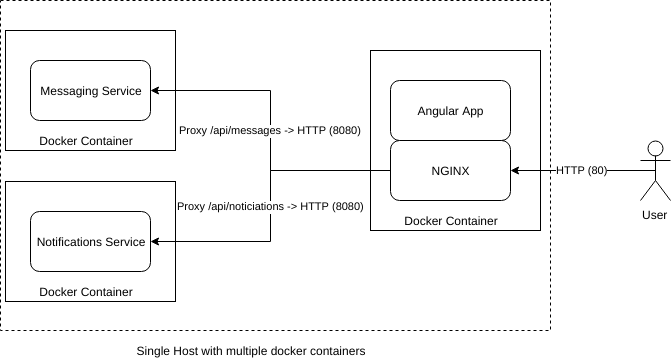
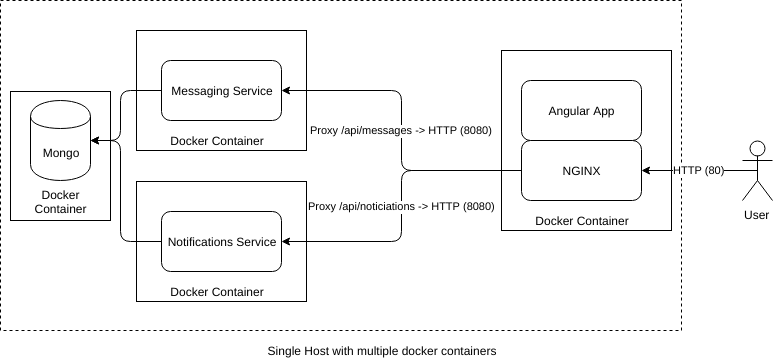
Added backend MongoDB as a separate container for both services

diff --git a/backend/notifications-service/src/main/java/playground/notifications/controller/NotificationsController.java b/backend/notifications-service/src/main/java/playground/notifications/controller/NotificationsController.java
@@ -4,6 +4,7 @@ import java.sql.Date;
 import java.util.ArrayList;
 import java.util.List;
 
+import org.springframework.beans.factory.annotation.Autowired;
 import org.springframework.http.HttpStatus;
 import org.springframework.http.MediaType;
 import org.springframework.web.bind.annotation.RequestMapping;
@@ -11,17 +12,25 @@ import org.springframework.web.bind.annotation.RequestMethod;
 import org.springframework.web.bind.annotation.ResponseStatus;
 import org.springframework.web.bind.annotation.RestController;
 
+import playground.notifications.Notification;
+import playground.notifications.NotificationsRepository;
+import playground.notifications.Severity;
+
 @RestController
 public class NotificationsController {
+	private NotificationsRepository notificationsRepository;
+	
+	@Autowired
+	public NotificationsController(NotificationsRepository notificationsRepository) {
+		this.notificationsRepository = notificationsRepository;
+	}
+	
 	@RequestMapping(value = "/api/notifications", method = RequestMethod.GET, produces = MediaType.APPLICATION_JSON_VALUE)
 	@ResponseStatus(HttpStatus.OK)
 	public NotificationsResponse getMessages() {
-		List<Notification> notifications = new ArrayList<>();
-		notifications.add(new Notification("Something minor happened.", Date.valueOf("2011-01-01"), Severity.LOW));
-		notifications
-				.add(new Notification("Something critical happened.", Date.valueOf("2013-01-01"), Severity.CRITICAL));
-		notifications.add(new Notification("Something happened.", Date.valueOf("2015-01-01"), Severity.MED));
-
+		List<Notification> notifications = 
+				notificationsRepository.findAll();
+		
 		NotificationsResponse response = new NotificationsResponse();
 		response.setNotifications(notifications);
 

diff --git a/backend/messaging-service/src/main/java/playground/messaging/controller/MessagingController.java b/backend/messaging-service/src/main/java/playground/messaging/controller/MessagingController.java
@@ -4,6 +4,7 @@ import java.sql.Date;
 import java.util.ArrayList;
 import java.util.List;
 
+import org.springframework.beans.factory.annotation.Autowired;
 import org.springframework.http.HttpStatus;
 import org.springframework.http.MediaType;
 import org.springframework.web.bind.annotation.RequestMapping;
@@ -11,19 +12,25 @@ import org.springframework.web.bind.annotation.RequestMethod;
 import org.springframework.web.bind.annotation.ResponseStatus;
 import org.springframework.web.bind.annotation.RestController;
 
+import playground.messaging.Message;
+import playground.messaging.MessagesRepository;
+
 @RestController
 public class MessagingController {
+	private MessagesRepository messagesRepository;
+	
+	@Autowired
+	MessagingController(MessagesRepository messagesRepository) {
+		this.messagesRepository = messagesRepository;
+	}
 	
 	@RequestMapping(value = "/api/messages",
 					method = RequestMethod.GET,
 					produces = MediaType.APPLICATION_JSON_VALUE)
 	@ResponseStatus(HttpStatus.OK)
 	public MessagesResponse getMessages() {
-		List<Message> messages = new ArrayList<>();
-		messages.add(new Message("Test message 1", Date.valueOf("2011-01-01"), "Someone"));
-		messages.add(new Message("Test message 2", Date.valueOf("2013-01-01"), "Someone else"));
-		messages.add(new Message("Test message 3", Date.valueOf("2015-01-01"), "Yet another"));
-		
+		List<Message> messages = messagesRepository.findAll();
+				
 		MessagesResponse response = new MessagesResponse();
 		response.setMessages(messages);
 		

diff --git a/backend/notifications-service/src/main/java/playground/notifications/DataSeeder.java b/backend/notifications-service/src/main/java/playground/notifications/DataSeeder.java
@@ -1,0 +1,32 @@
+package playground.notifications;
+
+import java.time.Instant;
+import java.time.temporal.ChronoUnit;
+import java.util.Date;
+
+import org.springframework.stereotype.Service;
+
+@Service
+public class DataSeeder {
+	private final Notification[] seedNotifications= new Notification[] {
+		new Notification("Test Notification 1", Date.from(Instant.now().minus(10, ChronoUnit.DAYS)), Severity.LOW),
+		new Notification("Test Notification 2", Date.from(Instant.now().minus(12, ChronoUnit.DAYS)), Severity.MED),
+		new Notification("Test Notification 3", Date.from(Instant.now().minus(15, ChronoUnit.DAYS)), Severity.HIGH),
+		new Notification("Test Notification 4", Date.from(Instant.now().minus(17, ChronoUnit.DAYS)), Severity.CRITICAL),
+	};
+	
+	private NotificationsRepository notificationsRepository;
+	
+	public DataSeeder(NotificationsRepository notificationsRepository) {
+		this.notificationsRepository = notificationsRepository;
+	}
+	
+	public void seedIfEmpty() {
+		long numberOfRecords = notificationsRepository.count();
+		if(numberOfRecords == 0) {
+			for(Notification notification: seedNotifications) {
+				notificationsRepository.insert(notification);
+			}
+		}
+	}
+}

diff --git a/backend/messaging-service/src/main/java/playground/messaging/DataSeeder.java b/backend/messaging-service/src/main/java/playground/messaging/DataSeeder.java
@@ -1,0 +1,32 @@
+package playground.messaging;
+
+import java.time.Instant;
+import java.time.temporal.ChronoUnit;
+import java.util.Date;
+
+import org.springframework.stereotype.Service;
+
+@Service
+public class DataSeeder {
+	private final Message[] seedMessages = new Message[] {
+		new Message("Test Message 1", Date.from(Instant.now().minus(10, ChronoUnit.DAYS)), "User1"),
+		new Message("Test Message 2", Date.from(Instant.now().minus(12, ChronoUnit.DAYS)), "User2"),
+		new Message("Test Message 3", Date.from(Instant.now().minus(15, ChronoUnit.DAYS)), "User3"),
+		new Message("Test Message 4", Date.from(Instant.now().minus(17, ChronoUnit.DAYS)), "User2"),
+	};
+	
+	private MessagesRepository messagesRepository;
+	
+	public DataSeeder(MessagesRepository messagesRepository) {
+		this.messagesRepository = messagesRepository;
+	}
+	
+	public void seedIfEmpty() {
+		long numberOfRecords = messagesRepository.count();
+		if(numberOfRecords == 0) {
+			for(Message message: seedMessages) {
+				messagesRepository.insert(message);
+			}
+		}
+	}
+}

diff --git a/backend/notifications-service/src/main/java/playground/notifications/NotificationsServiceApplication.java b/backend/notifications-service/src/main/java/playground/notifications/NotificationsServiceApplication.java
@@ -1,12 +1,25 @@
 package playground.notifications;
 
+import org.springframework.beans.factory.annotation.Autowired;
 import org.springframework.boot.SpringApplication;
 import org.springframework.boot.autoconfigure.SpringBootApplication;
+import org.springframework.context.ConfigurableApplicationContext;
 
 @SpringBootApplication
 public class NotificationsServiceApplication {
-
+	@Autowired
+	private DataSeeder dataSeeder;
+	
 	public static void main(String[] args) {
-		SpringApplication.run(NotificationsServiceApplication.class, args);
+		ConfigurableApplicationContext context = 
+				SpringApplication.run(NotificationsServiceApplication.class, args);
+		NotificationsServiceApplication app = 
+				context.getBean(NotificationsServiceApplication.class);
+		
+		app.init();
+	}
+	
+	public void init() {
+		dataSeeder.seedIfEmpty();
 	}
 }

diff --git a/backend/messaging-service/src/main/java/playground/messaging/MessagingServiceApplication.java b/backend/messaging-service/src/main/java/playground/messaging/MessagingServiceApplication.java
@@ -1,12 +1,26 @@
 package playground.messaging;
 
+import org.springframework.beans.factory.annotation.Autowired;
 import org.springframework.boot.SpringApplication;
 import org.springframework.boot.autoconfigure.SpringBootApplication;
+import org.springframework.context.ConfigurableApplicationContext;
 
 @SpringBootApplication
 public class MessagingServiceApplication {
 
+	@Autowired
+	private DataSeeder dataSeeder;
+	
 	public static void main(String[] args) {
-		SpringApplication.run(MessagingServiceApplication.class, args);
+		ConfigurableApplicationContext context = 
+				SpringApplication.run(MessagingServiceApplication.class, args);
+		
+		MessagingServiceApplication app = 
+				context.getBean(MessagingServiceApplication.class);
+		app.init();
+	}
+	
+	public void init() {
+		dataSeeder.seedIfEmpty();
 	}
 }

diff --git a/backend/messaging-service/src/main/java/playground/messaging/Message.java b/backend/messaging-service/src/main/java/playground/messaging/Message.java
@@ -1,8 +1,12 @@
-package playground.messaging.controller;
+package playground.messaging;
 
 import java.util.Date;
 
+import org.springframework.data.annotation.Id;
+
 public class Message {
+	@Id
+	private String id;
 	private String content;
 	private Date timestamp;
 	private String sender;
@@ -16,6 +20,9 @@ public class Message {
 		this.timestamp = timestamp;
 		this.sender = sender;
 	}
+	
+	public String getId() { return id; }
+	public void setId(String id) { this.id = id; }
 	
 	public String getContent() { return content; }
 	public void setContent(String content) { this.content = content; }

diff --git a/backend/notifications-service/src/main/java/playground/notifications/Notification.java b/backend/notifications-service/src/main/java/playground/notifications/Notification.java
@@ -1,8 +1,12 @@
-package playground.notifications.controller;
+package playground.notifications;
 
 import java.util.Date;
 
+import org.springframework.data.annotation.Id;
+
 public class Notification {
+	@Id
+	private String id;
 	private Date timestamp;
 	private String message;
 	private Severity severity;
@@ -13,6 +17,13 @@ public class Notification {
 		this.message = message;
 		this.timestamp = timestamp;
 		this.severity = severity;
+	}
+	
+	public String getId() {
+		return id;
+	}
+	public void setId(String id) {
+		this.id = id;
 	}
 	
 	public Date getTimestamp() {

diff --git a/backend/notifications-service/src/test/java/playground/notifications/NotificationsServiceApplicationTests.java b/backend/notifications-service/src/test/java/playground/notifications/NotificationsServiceApplicationTests.java
@@ -1,5 +1,6 @@
 package playground.notifications;
 
+import org.junit.Ignore;
 import org.junit.Test;
 import org.junit.runner.RunWith;
 import org.springframework.boot.test.context.SpringBootTest;
@@ -9,7 +10,7 @@ import org.springframework.test.context.junit4.SpringRunner;
 @SpringBootTest
 public class NotificationsServiceApplicationTests {
 
-	@Test
+	@Test @Ignore
 	public void contextLoads() {
 	}
 

diff --git a/backend/messaging-service/src/test/java/playground/messaging/MessagingServiceApplicationTests.java b/backend/messaging-service/src/test/java/playground/messaging/MessagingServiceApplicationTests.java
@@ -1,5 +1,6 @@
 package playground.messaging;
 
+import org.junit.Ignore;
 import org.junit.Test;
 import org.junit.runner.RunWith;
 import org.springframework.boot.test.context.SpringBootTest;
@@ -9,7 +10,7 @@ import org.springframework.test.context.junit4.SpringRunner;
 @SpringBootTest
 public class MessagingServiceApplicationTests {
 
-	@Test
+	@Test @Ignore
 	public void contextLoads() {
 	}
 

diff --git a/backend/notifications-service/src/main/java/playground/notifications/controller/NotificationsResponse.java b/backend/notifications-service/src/main/java/playground/notifications/controller/NotificationsResponse.java
@@ -2,6 +2,8 @@ package playground.notifications.controller;
 
 import java.util.List;
 
+import playground.notifications.Notification;
+
 public class NotificationsResponse {
 	private List<Notification> notifications;
 	

diff --git a/backend/notifications-service/src/main/java/playground/notifications/NotificationsRepository.java b/backend/notifications-service/src/main/java/playground/notifications/NotificationsRepository.java
@@ -1,0 +1,7 @@
+package playground.notifications;
+
+import org.springframework.data.mongodb.repository.MongoRepository;
+
+public interface NotificationsRepository extends MongoRepository<Notification, String>{
+
+}
